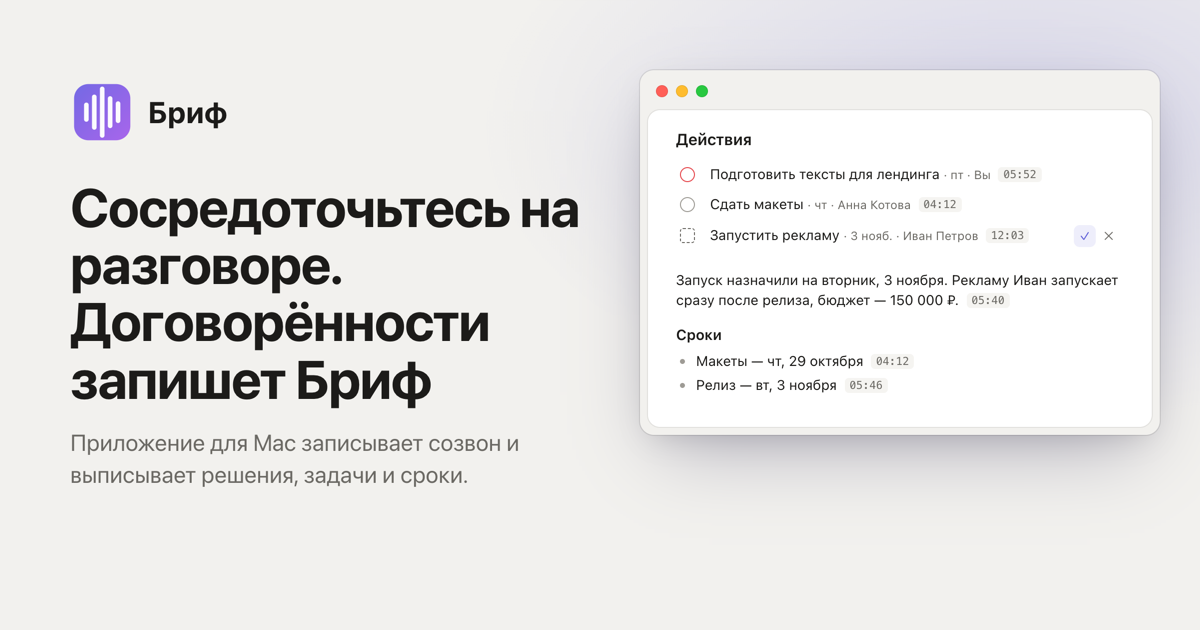
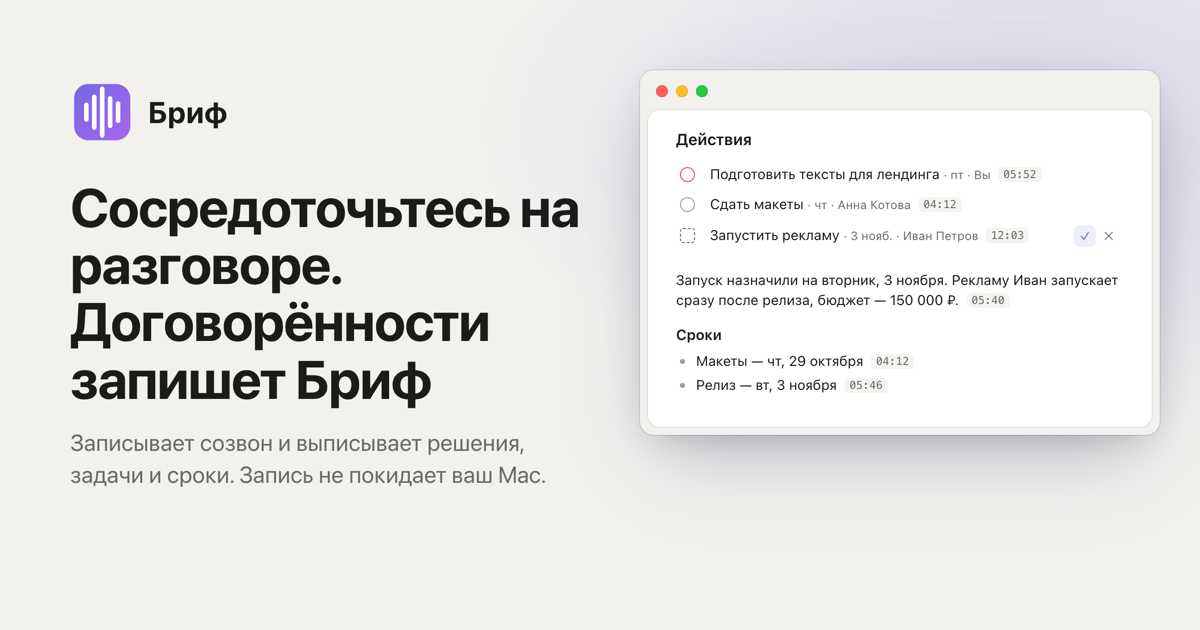
Сайт: 0864802

Changed region(s): [[0.0617, 0.6937, 0.4625, 0.7841]]

diff --git a/index.html b/index.html
@@ -8,7 +8,7 @@
 <meta property="og:type" content="website">
 <meta property="og:locale" content="ru_RU">
 <meta property="og:title" content="Сосредоточьтесь на разговоре. Договорённости запишет Бриф">
-<meta property="og:description" content="Приложение для Mac записывает созвон и выписывает решения, задачи и сроки. Звук не покидает компьютер. Сейчас бесплатно.">
+<meta property="og:description" content="Бриф записывает созвон и выписывает решения, задачи и сроки. Запись не покидает ваш Mac — речь распознаётся прямо на нём, без облака. Сейчас бесплатно.">
 <meta property="og:image" content="https://23brezhnev.github.io/brif-releases/assets/og.png">
 <meta property="og:image:width" content="1200">
 <meta property="og:image:height" content="630">
@@ -43,7 +43,7 @@
   <div class="wrap">
     <span class="eyebrow"><span>Для macOS</span><span>·</span><b>сейчас бесплатно</b></span>
     <h1>Сосредоточьтесь на разговоре.<br> Договорённости запишет&nbsp;Бриф</h1>
-    <p class="lead">Приложение для Mac записывает созвон и выписывает решения, задачи и сроки. Звук не покидает компьютер.</p>
+    <p class="lead">Бриф записывает созвон и выписывает решения, задачи и сроки. Запись не покидает ваш Mac — речь распознаётся прямо на нём, без облака.</p>
     <div class="cta">
       <a class="btn mac-only" data-download href="https://github.com/23brezhnev/brif-releases/releases/latest">
         <svg viewBox="0 0 24 24" fill="none" stroke="currentColor" stroke-width="2.2" stroke-linecap="round" stroke-linejoin="round"><path d="M12 4v11m0 0-4.5-4.5M12 15l4.5-4.5M5 20h14"/></svg>
@@ -55,7 +55,6 @@
         <button class="btn" type="button" data-copy>Скопировать ссылку</button>
       </div>
     </div>
-    <p class="btn-note mac-only">macOS 14 или новее · Mac на Apple Silicon (M1 и новее) · 2–4 ГБ свободного места · <span data-version>dmg из последнего выпуска</span></p>
 
     <div class="hero-stage">
       <div class="scene-tabs" id="hero-tabs" role="tablist" aria-label="Сцены демонстрации">
@@ -341,7 +340,7 @@
       <div class="card reveal"><div class="em">3</div><b>Выдайте разрешения</b><span>Микрофон, «Запись экрана» — для звука звонка (после неё перезапустите Бриф), календарь, контакты, уведомления. Все статусы — «Настройки → Разрешения».</span></div>
     </div>
     <div class="req">
-      <span>macOS 14 Sonoma или новее</span><span>Mac на Apple Silicon (M1 и новее)</span><span>≈2–4 ГБ на модели распознавания</span><span>Интерфейс на русском</span>
+      <span>macOS 14 Sonoma или новее</span><span>Mac на Apple Silicon (M1 и новее)</span><span>≈2–4 ГБ на модели распознавания</span><span>Интерфейс на русском</span><span data-version>Последний выпуск</span>
     </div>
     <p class="btn-note center">При первом запуске Бриф скачает модель распознавания (≈1,6 ГБ) и подготовит её под Neural Engine — первая обработка займёт дольше обычной. Обновления приходят сами: «Бриф → Проверить обновления…».</p>
   </div>
@@ -378,7 +377,6 @@
       </a>
       <div class="not-mac" hidden><button class="btn" type="button" data-copy>Скопировать ссылку на страницу</button></div>
     </div>
-    <p class="btn-note mac-only">macOS 14+ · Apple Silicon · <span data-version>бесплатно</span></p>
   </div>
 </section>
 

diff --git a/og.html b/og.html
@@ -13,7 +13,7 @@
 </style></head><body>
 <div class="l"><div class="b"><img src="assets/icon.png" alt="">Бриф</div>
   <h1>Сосредоточьтесь на разговоре. Договорённости запишет Бриф</h1>
-  <p>Приложение для Mac записывает созвон и выписывает решения, задачи и сроки.</p></div>
+  <p>Записывает созвон и выписывает решения, задачи и сроки. Запись не покидает ваш Mac.</p></div>
 <div class="r"><div class="mac compact"><div class="lights"><i></i><i></i><i></i></div><div class="sheet"><div class="content">
   <div class="actions"><h6>Действия</h6>
     <div class="act ok hi"><span class="box"></span><div><span class="tt">Подготовить тексты для лендинга</span><span class="mm">· пт · Вы</span> <span class="cite">05:52</span></div><div class="btns"></div></div>
